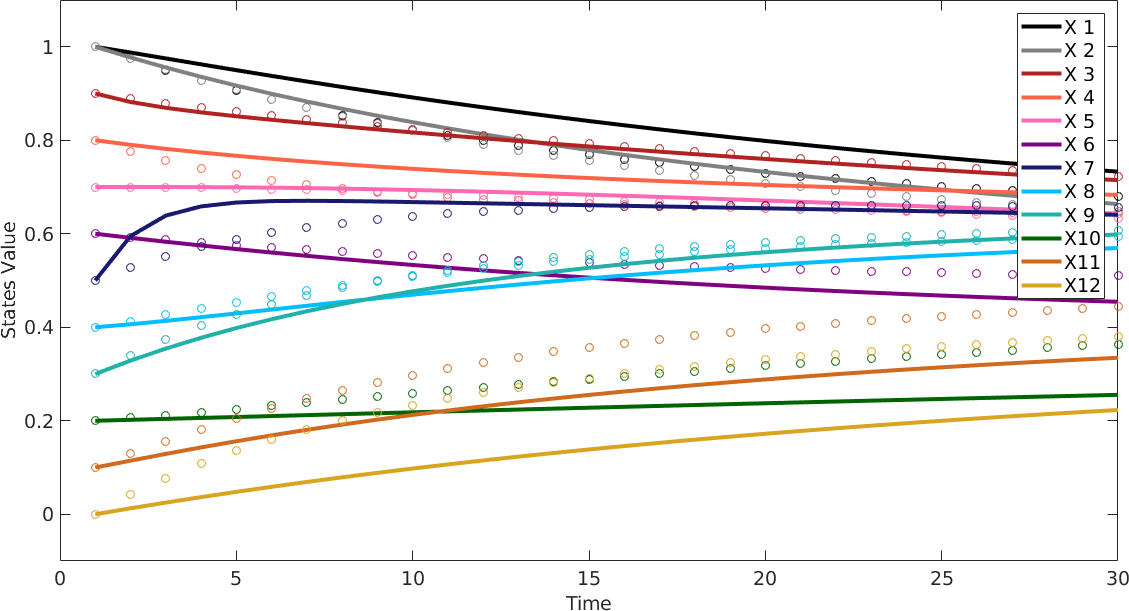
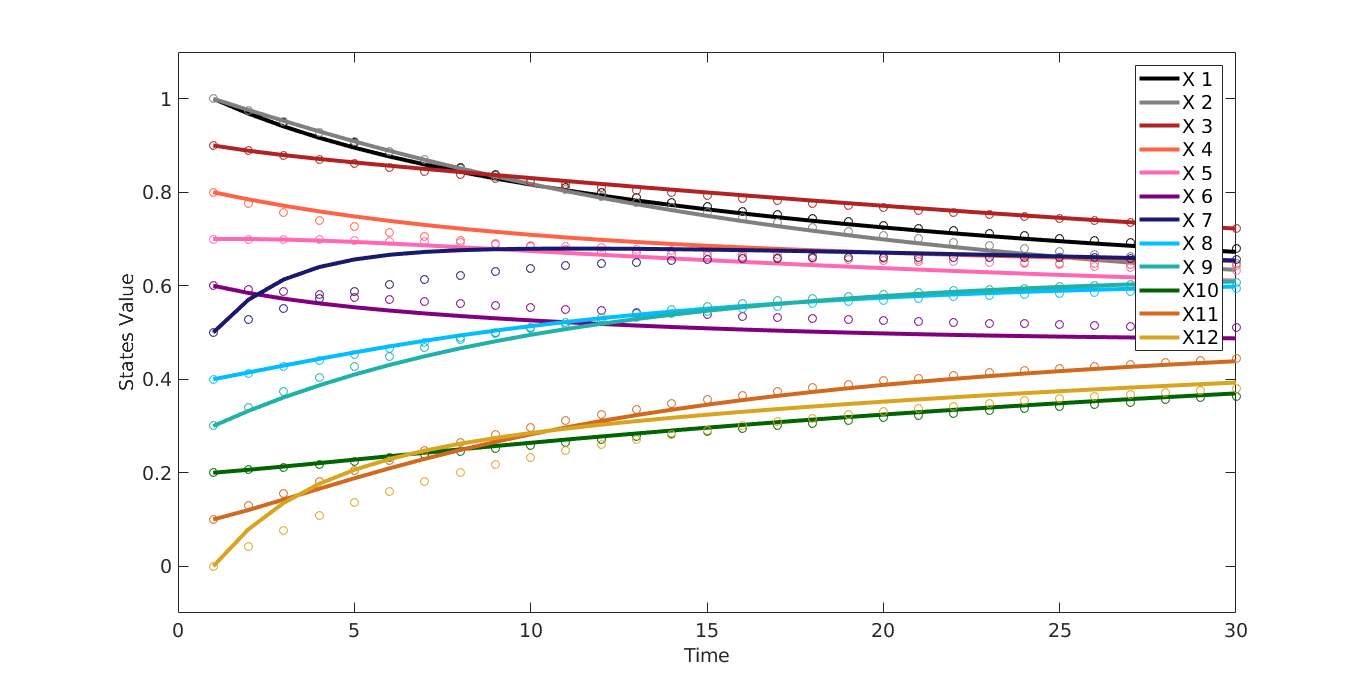
Fix plotdiff_new.m script

diff --git a/Assignment 4/res/plotdiff_new.m b/Assignment 4/res/plotdiff_new.m
@@ -36,7 +36,7 @@ for j=1:12
 
     %Data = S.Data(j); % EmpIrical Data
 
-    etha = [0.1 0.1 0.1 0.05 0.05 0.05 0.5 0.1 0.1 0.01 0.1 0.05];
+    etha = [0.257 0.105 0.062 0.078 0.323 0.089 0.370 0.229 0.113 0.032 0.139 0.312];
 
     maxNumber = floor(maxT/deltaT) ; % Number of steps
 
